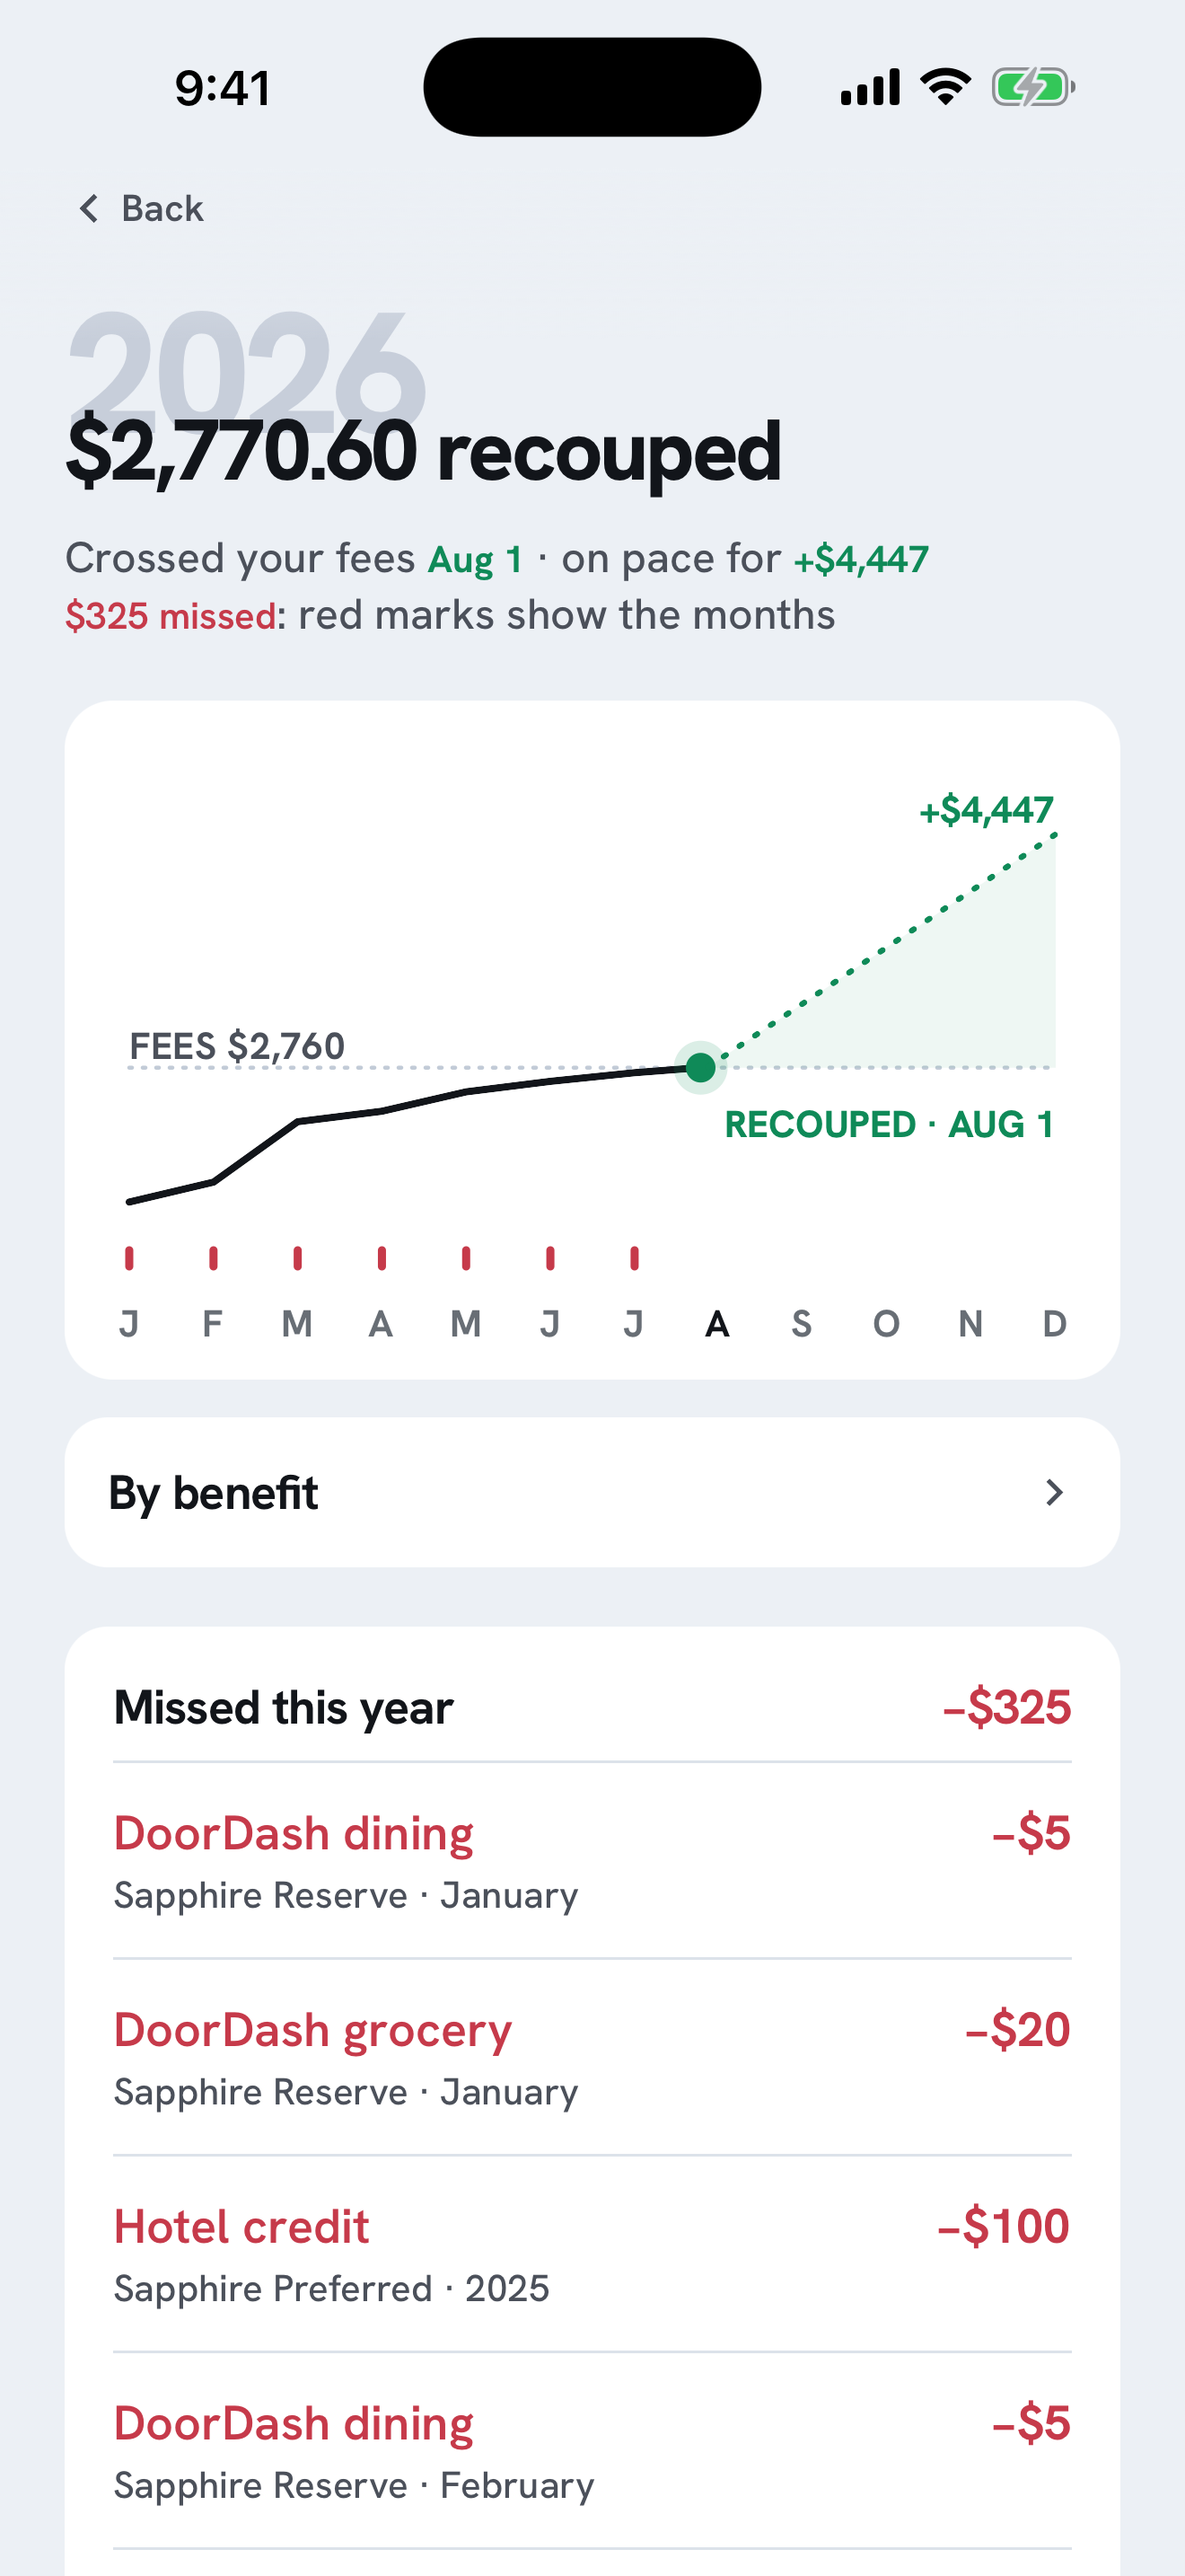
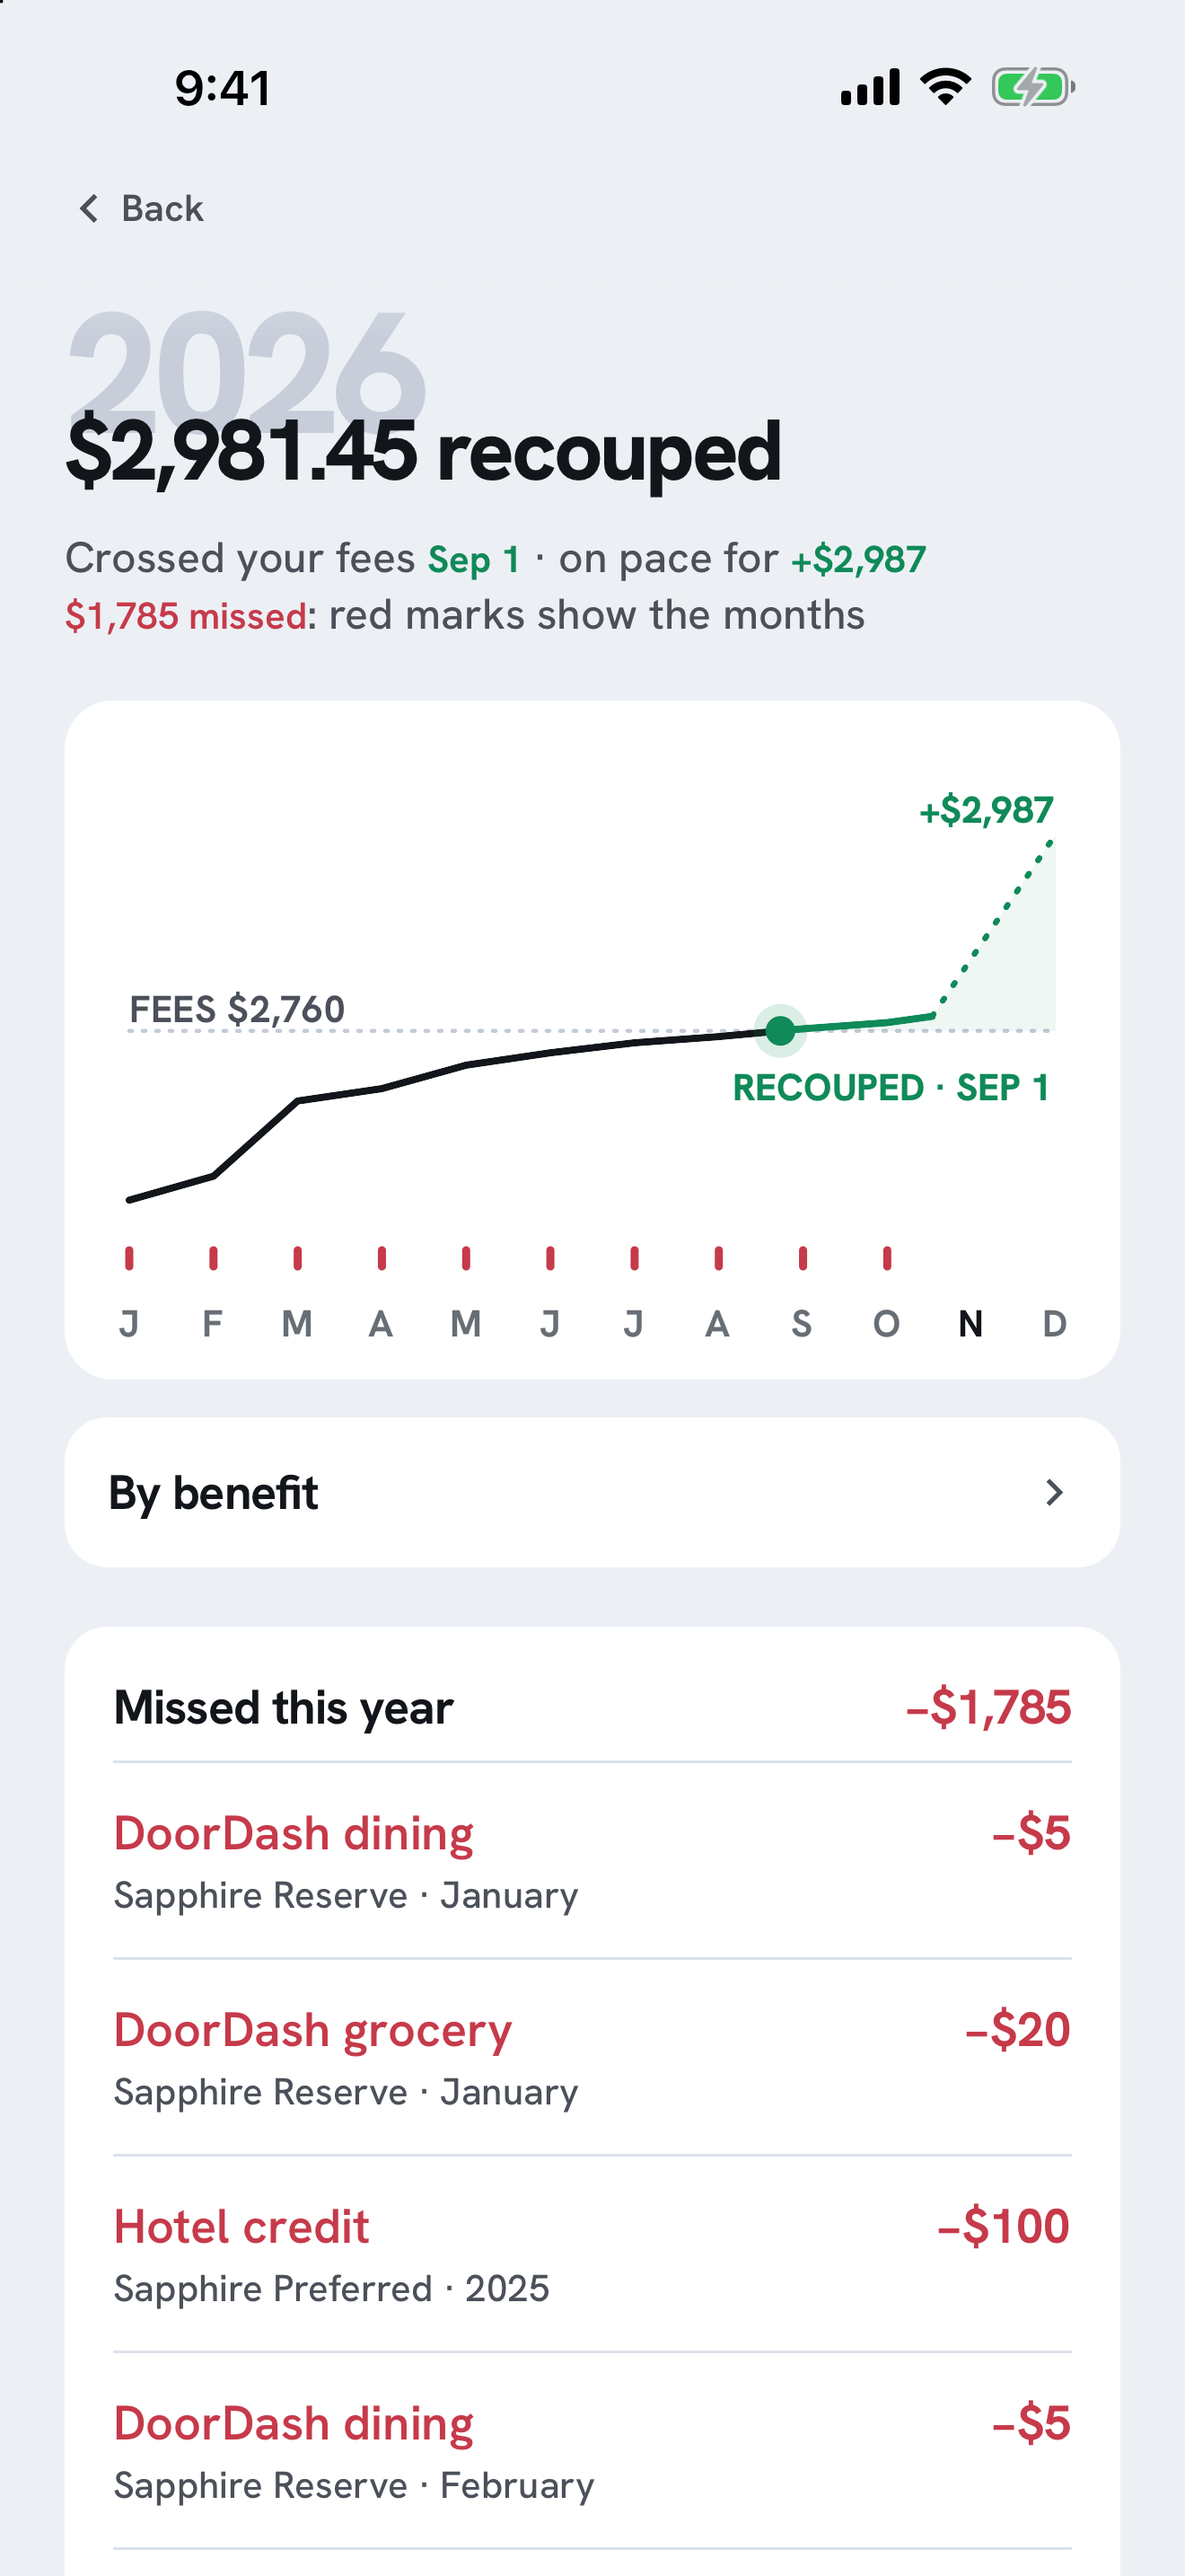
Screens: recapture all 17 from 1.0.4 build 30 (November demo data)

diff --git a/src/config.ts b/src/config.ts
@@ -74,19 +74,19 @@ export const launchCards = [
  * right-to-left. Eight frameless raw captures (1320×2868 PNG) in numbered slide
  * order, sourced from design/site/screens (NOT design/site/raw-v2, the framed
  * App Store set). They live in `public/screens/`; the site supplies its own
- * rounded card framing. Captured from 1.0.1 build 26 on 2026-08-26. Screens
- * show demo data (August, net +$186), so alt text stays illustrative, never
+ * rounded card framing. Captured from 1.0.4 build 30 on 2026-11-16. Screens
+ * show demo data (November, net +$396), so alt text stays illustrative, never
  * testimonial.
  */
 export const realScreens = [
   { file: '01-welcome.png', alt: 'Rēcoup welcome screen: an engraved tulip above the Rēcoup wordmark and a Get started button' },
-  { file: '02-today-hero.png', alt: 'Rēcoup dashboard with demo data: August up $186, fees covered' },
+  { file: '02-today-hero.png', alt: 'Rēcoup dashboard with demo data: November up $396, fees covered' },
   { file: '03-cards-all.png', alt: 'All five launch cards, each with its own engraving and per-card net' },
-  { file: '04-card-detail-enrollment.png', alt: 'American Express Platinum card detail with per-benefit enrollment: not enrolled, enrolled, and autopilot' },
+  { file: '04-card-detail-enrollment.png', alt: 'American Express Platinum card detail: a credit opened to show where to use it, and per-benefit enrollment' },
   { file: '05-year-chart.png', alt: 'Year view with the recoup curve crossing the annual fee line' },
   { file: '06-by-benefit-grid.png', alt: 'Month-by-month grid of credits by benefit' },
   { file: '07-about-flowers.png', alt: 'The brand story screen pairing each card with an engraved bloom' },
-  { file: '08-onboarding.png', alt: 'Onboarding: which cards do you carry, showing the five launch cards' },
+  { file: '08-onboarding.png', alt: 'Onboarding: which cards do you carry, showing the five launch cards and a link to ask for a missing one' },
 ] as const;
 
 /**
@@ -98,5 +98,5 @@ export const realScreens = [
 export const heroScreen = {
   src: '/screens/hero-month.png',
   srcDark: '/screens/dark/hero-month.png',
-  alt: 'Rēcoup dashboard with demo data: August recouped $186, fees covered',
+  alt: 'Rēcoup dashboard with demo data: November up $396, fees covered',
 } as const;

diff --git a/public/screens/MANIFEST.md b/public/screens/MANIFEST.md
@@ -1,8 +1,8 @@
 # App screens
 
 Real captures from the Rēcoup iOS app, iPhone 17 Pro Max, native 1320x2868 (3x)
-PNG. Captured from 1.0.1 (build 26), the version released 2026-08-26. Demo data
-shows August with net +$186, fees covered. Illustrative of the product, never a
+PNG. Captured from 1.0.4 (build 30), the version released 2026-11-16. Demo data
+shows November with net +$396, fees covered. Illustrative of the product, never a
 testimonial.
 
 ## Convention
@@ -25,13 +25,13 @@ files are deleted.
 | file | screen |
 |------|--------|
 | 01-welcome | tulip + wordmark + Get started |
-| 02-today-hero | dashboard, "August +$186, fees covered" |
+| 02-today-hero | dashboard, "November +$396, fees covered" |
 | 03-cards-all | all 5 cards, per-card net + engravings |
-| 04-card-detail-enrollment | Amex Platinum, Enrollment / Autopilot states |
+| 04-card-detail-enrollment | Amex Platinum, Uber Cash open: note, "Use it at uber.com", Enrollment / Autopilot |
 | 05-year-chart | recoup curve crossing the fee line |
 | 06-by-benefit-grid | month-by-month credit grid |
 | 07-about-flowers | "The flowers" brand story |
-| 08-onboarding | "Which cards do you carry?", step 2 of 6 |
+| 08-onboarding | "Which cards do you carry?", step 2 of 6, "Ask for it" link |
 
 ## Hero
 `hero-month.png` / `dark/hero-month.png`: the Today dashboard, a second copy of
@@ -40,7 +40,7 @@ files are deleted.
 gone and the hero serves the 1x only.
 
 ## Shelf life
-Anything showing a month or a day count ages. This set says "August" and
-"4 days left". Recapture when that reads conspicuously stale, or when the app's
+Anything showing a month or a day count ages. This set says "November" and
+"14 days left". Recapture when that reads conspicuously stale, or when the app's
 type scale or colors change again. The capture notes live in the app repo at
 `design/site/README-screens.md`.
